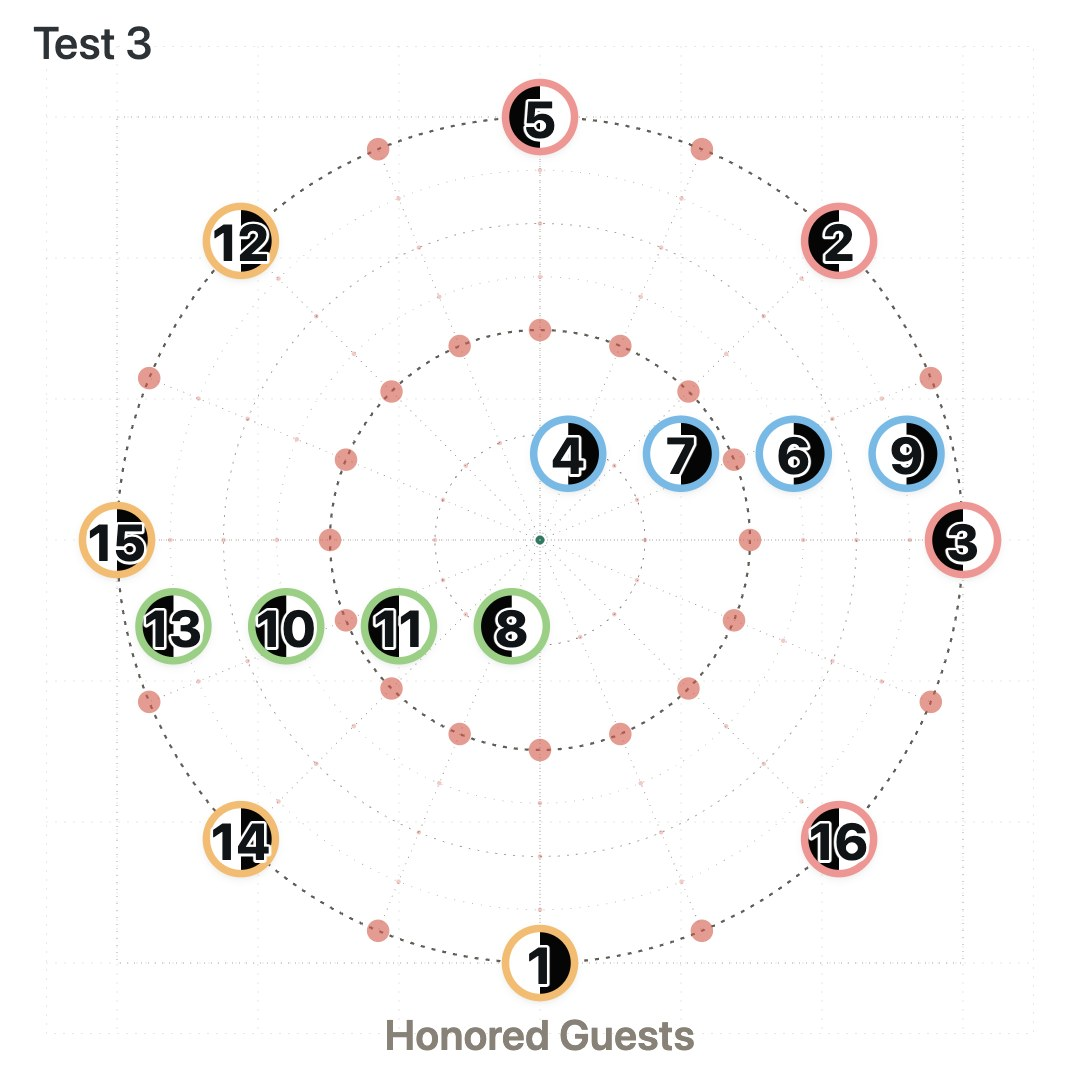
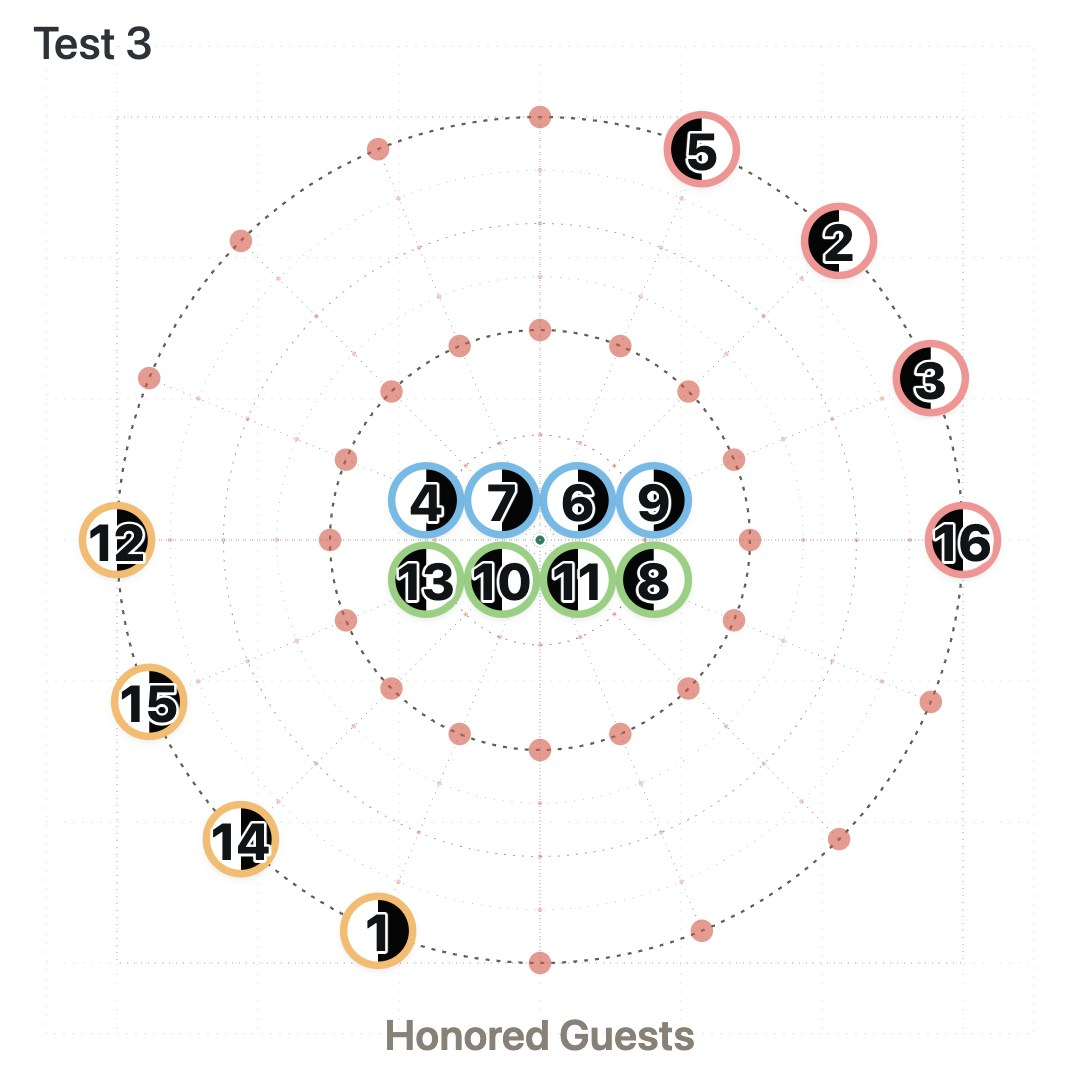
Waltz 14 Swirling Cascade: Test 3 ring tapes and centered rows

diff --git a/index.html b/index.html
@@ -5021,29 +5021,38 @@
               });
               return named(line, swirl, "Test 2");
             })(),
-            // "Test 3" (Ariel, 11/23): amber and rose go out to the outside circle, every other tape:
-            // 1 on the tape nearest the Honored Guests, then up the left side 14, 15, 12, 5 on the
-            // north cardinal, then down the right side 2, 3, 16. The horizontal line splits: green steps
-            // toward the Honored Guests and blue away, each staying on its spot across. Facings as in
-            // Test 2.
+            // "Test 3" (Ariel, 11/23): amber and rose go out to the outside circle, one couple a tape.
+            // Amber takes the 4 tapes left of the south cardinal (nearest the Honored Guests), going
+            // up the left side: 1, 14, 15, 12 (12 on the west cardinal). Rose takes the 4 tapes right
+            // of the north cardinal, going down the right side: 5, 2, 3, 16 (16 on the east cardinal).
+            // Green and blue make two short centered lines, close together: green nearer the Honored
+            // Guests, blue just behind, each keeping its order across. Facings as in Test 2.
             (() => {
               const line = frame("Test 3", 1, 4, FIT);
               const byX = [...line.items].sort((a, b) => a.x - b.x).map((item) => item.number);
-              const ring = [1, 14, 15, 12, 5, 2, 3, 16];
-              const split = PIECE_RADIUS * 2.5;
+              const tape = Math.PI / 8;
+              const ring = { 1: 1, 14: 2, 15: 3, 12: 4 };
+              const ringRose = { 5: 1, 2: 2, 3: 3, 16: 4 };
+              const rows = { green: [], blue: [] };
               line.items.forEach((item) => {
                 const front = byX.indexOf(item.number) % 2 === 0;
                 const left = item.x < CENTER.x;
                 item.groupColor = front ? (left ? "amber" : "blue") : (left ? "green" : "rose");
                 item.facingMode = front ? "east" : "west";
-                const tape = ring.indexOf(item.number);
-                if (tape >= 0) {
-                  const angle = Math.PI / 2 + (tape * Math.PI) / 4;
+                const angle = ring[item.number] ? Math.PI / 2 + ring[item.number] * tape
+                  : ringRose[item.number] ? (3 * Math.PI) / 2 + ringRose[item.number] * tape : null;
+                if (angle !== null) {
                   item.x = fix(CENTER.x + OUTER_RADIUS * Math.cos(angle));
                   item.y = fix(CENTER.y + OUTER_RADIUS * Math.sin(angle));
-                } else {
-                  item.y = fix(item.y + (item.groupColor === "green" ? split : -split));
-                }
+                } else rows[item.groupColor].push(item);
+              });
+              // Each row centered, neighbours just apart; the two rows just clear of each other.
+              const across = PIECE_RADIUS * 2.2, apart = PIECE_RADIUS * 1.15;
+              Object.entries(rows).forEach(([color, row]) => {
+                row.sort((a, b) => a.x - b.x).forEach((item, index) => {
+                  item.x = fix(CENTER.x + (index - (row.length - 1) / 2) * across);
+                  item.y = fix(CENTER.y + (color === "green" ? apart : -apart));
+                });
               });
               return named(line, swirl, "Test 3");
             })(),
